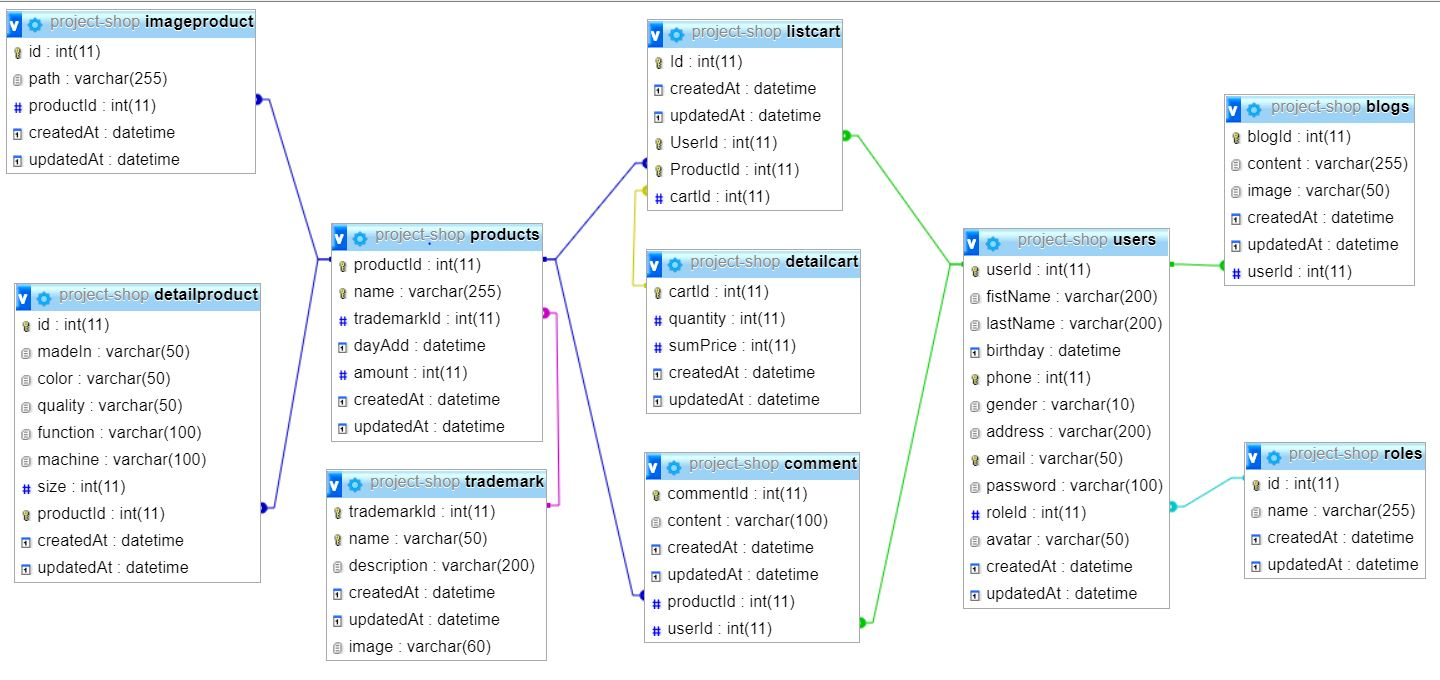
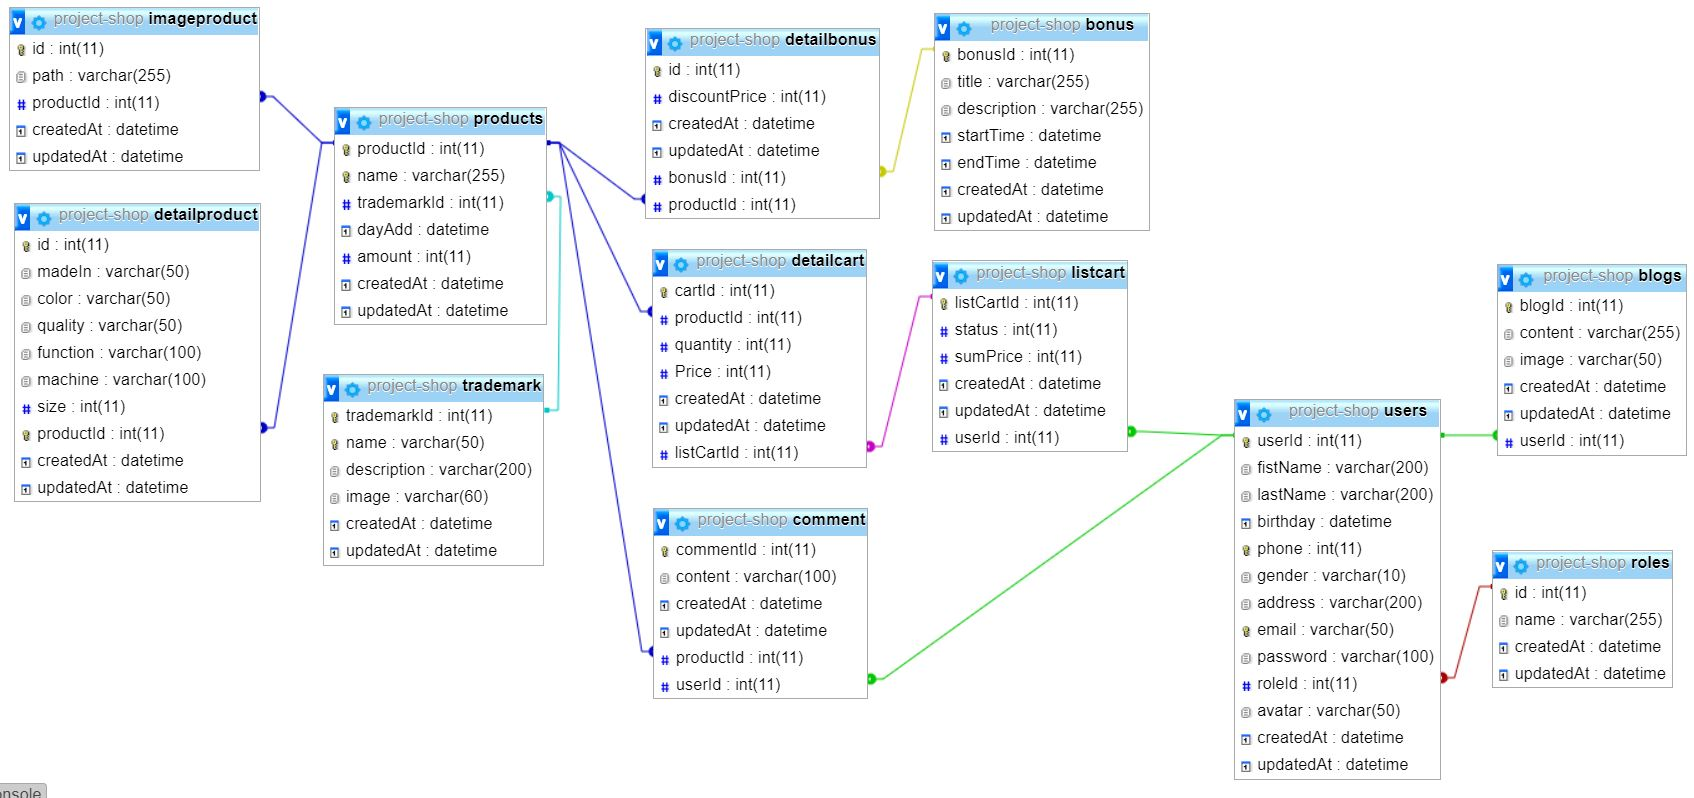
update database 2.11.2020

Changed region(s): [[0.0, 0.0, 1.0, 0.9882], [0.0, 0.7103, 0.125, 0.8647], [0.0, 0.9574, 0.0312, 1.0]]

diff --git a/config/connectDB.js b/config/connectDB.js
@@ -17,6 +17,7 @@ const databaseShop = {};
 
 databaseShop.Sequelize = Sequelize;
 databaseShop.sequelize = sequelize;
+//table -- Object
 databaseShop.Users = require('../model/userModel')(sequelize,Sequelize);
 databaseShop.Role = require('../model/roleModel')(sequelize,Sequelize);
 databaseShop.Products= require('../model/productModel')(sequelize,Sequelize);
@@ -24,10 +25,11 @@ databaseShop.Trademark = require('../model/TrademarkModel')(sequelize,Sequelize)
 databaseShop.detailProduct = require('../model/detailProductModel')(sequelize,Sequelize);
 databaseShop.ImageProduct = require('../model/imageProductModel')(sequelize,Sequelize);
 databaseShop.DetailCart = require("../model/detailCartModel")(sequelize,Sequelize);
+databaseShop.Bonus = require("../model/bonus")(sequelize,Sequelize);
+databaseShop.detailBonus = require("../model/detailBonus")(sequelize,Sequelize);
 databaseShop.Comment = require("../model/commentModel")(sequelize,Sequelize);
 databaseShop.ListCart = require("../model/listCartModel")(sequelize,Sequelize);
 databaseShop.Blogs = require("../model/blogModel")(sequelize,Sequelize);
-
 
 const setRole= async()=>{
   databaseShop.ROLES=[];
@@ -44,6 +46,7 @@ databaseShop.Users.belongsTo(databaseShop.Role,{
   foreignKey:"roleId",
   otherKey:"id"
 });
+
 //Product
 databaseShop.Products.hasMany(databaseShop.ImageProduct,{
   foreignKey:"productId",
@@ -73,25 +76,53 @@ databaseShop.Comment.belongsTo(databaseShop.Products,{
   foreignKey:"productId",
   as:"products"
 });
+
 //ListCart
-databaseShop.Users.belongsToMany(databaseShop.Products,{
-  through:databaseShop.ListCart,
-  foreignKey:"UserId",
-  otherKey:"ProductId"
+databaseShop.Users.hasMany(databaseShop.ListCart,{
+  foreignKey:"userId",
+  as:"listCarts"
 });
-databaseShop.Products.belongsToMany(databaseShop.Users,{
-  through:databaseShop.ListCart,
-  foreignKey:"ProductId",
-  otherKey:"UserId"
+databaseShop.ListCart.belongsTo(databaseShop.Users,{
+  foreignKey:"userId",
+  as:"users"
 });
-databaseShop.DetailCart.hasMany(databaseShop.ListCart,{
-  foreignKey:"cartId",
+databaseShop.Products.hasMany(databaseShop.DetailCart,{
+  foreignKey:"productId",
+  as:"listCarts"
+});
+databaseShop.DetailCart.belongsTo(databaseShop.Products,{
+  foreignKey:"productId",
+  as:"products"
+});
+databaseShop.ListCart.hasMany(databaseShop.DetailCart,{
+  foreignKey:"listCartId",
+  as:"detailCarts"
+});
+databaseShop.DetailCart.belongsTo(databaseShop.ListCart,{
+  foreignKey:"listCartId",
   as:"listCart"
 });
-databaseShop.ListCart.belongsTo(databaseShop.DetailCart,{
-  foreignKey:"cartId"
-})
-//User 
+
+//bonus -- discount price
+databaseShop.Bonus.hasMany(databaseShop.detailBonus,{
+  foreignKey:"bonusId",
+  as:"detailBonus"
+});
+databaseShop.detailBonus.belongsTo(databaseShop.Bonus,{
+  foreignKey:"bonusId",
+  as:"bonus"
+});
+//detail bonus-- product
+databaseShop.Products.hasMany(databaseShop.detailBonus,{
+  foreignKey:"productId",
+  as:"Bonus"
+});
+databaseShop.detailBonus.belongsTo(databaseShop.Bonus,{
+  foreignKey:"productId",
+  as:"products"
+});
+
+//User -- comment -- blog
 databaseShop.Users.hasMany(databaseShop.Comment,{
   foreignKey:"userId",
   as:"comments"

diff --git a/model/bonus.js b/model/bonus.js
@@ -1,0 +1,28 @@
+module.exports = (sequelize, Sequelize) => {
+    const bonus = sequelize.define("bonus", {
+        bonusId: {
+            type: Sequelize.INTEGER,
+            primaryKey: true,
+            autoIncrement: true
+        },
+        title: {
+            type: Sequelize.STRING,
+            allowNull: false
+        },
+        description: {
+            type: Sequelize.STRING,
+            allowNull: false
+        },
+        startTime: {
+            type: Sequelize.DATE,
+            allowNull:false
+        },
+        endTime: {
+            type: Sequelize.DATE,
+            allowNull: false
+        }
+    }, {
+        freezeTableName: true
+    });
+    return bonus;
+};

diff --git a/controller/listCartContrller.js b/controller/listCartContrller.js
@@ -1,0 +1,20 @@
+// const {ListCart} = require('../config/connectDB');
+
+// exports.create = async(req,res,next)=>{
+//     try {
+//         let obj = req.body;
+//         let lsc = ListCart.build({
+//             listCartId: obj.listCartId,
+//             status: obj.status,
+//             userId: req.user.userId 
+//         });
+//         let result = await lsc.save();
+//         res.status(201).json({
+//             data: result
+//         })
+//     } catch (e) {
+//         res.status(201).json({
+//             Error: e.message
+//         })
+//     }
+// }

diff --git a/Service/user.service.js b/Service/user.service.js
@@ -33,7 +33,6 @@ exports.createUser= async (req)=>{
             roleId: (req.body.role)?req.body.role: 2,
         });
         const result =await user.save();
-        console.log(result)
         return result;
     } catch (e) {
         console.log(e.message);
@@ -137,6 +136,7 @@ exports.generateAuthToken = async (user)=>{
         });
         return token;
     } catch (e) {
+        console.log(e.message);
         throw new Error(e.message);
     }
 };

diff --git a/model/listCartModel.js b/model/listCartModel.js
@@ -1,8 +1,16 @@
 module.exports = (sequelize,Sequelize)=>{
     const listCart = sequelize.define("listCart",{
-        Id:{
+        listCartId:{
             type: Sequelize.INTEGER,
             primaryKey: true
+        },
+        status:{
+            type: Sequelize.INTEGER,
+            allowNull:false
+        },
+        sumPrice:{
+            type: Sequelize.INTEGER,
+            allowNull:false
         }
     },{
         freezeTableName: true

diff --git a/model/detailCartModel.js b/model/detailCartModel.js
@@ -4,11 +4,15 @@ module.exports = (sequelize,Sequelize)=>{
             type: Sequelize.INTEGER,
             primaryKey: true
         },
+        productId:{
+            type: Sequelize.INTEGER,
+            allowNull: false
+        },
         quantity: {
             type: Sequelize.INTEGER,
             allowNull:false
         },
-        sumPrice:{
+        Price:{
             type:Sequelize.INTEGER,
             allowNull:false
         }

diff --git a/model/detailBonus.js b/model/detailBonus.js
@@ -1,0 +1,16 @@
+module.exports = (sequelize, Sequelize) => {
+    const detailBonus = sequelize.define("detailBonus", {
+        id: {
+            type: Sequelize.INTEGER,
+            primaryKey: true,
+            autoIncrement: true
+        },
+        discountPrice:{
+            type: Sequelize.INTEGER,
+            allowNull:false
+        }
+    }, {
+        freezeTableName: true
+    });
+    return detailBonus;
+};

diff --git a/router/userRouter.js b/router/userRouter.js
@@ -5,7 +5,6 @@ const authToken = require('../middleware/authentication').authenticationToken;
 const {isAdminShop} = require('../middleware/checkRole');
 
 
-
 router.get('/',[authToken , isAdminShop],userController.getAll);
 router.post('/',userController.createUser);
 router.post('/login',userController.loginUser);
